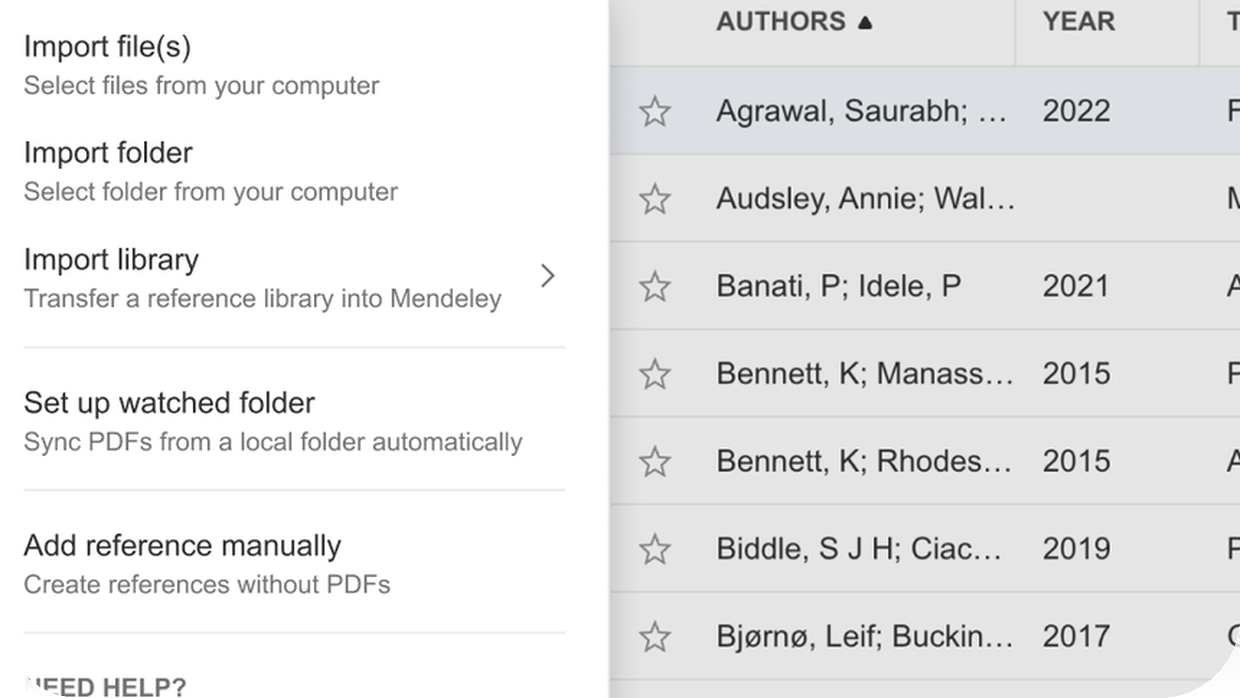
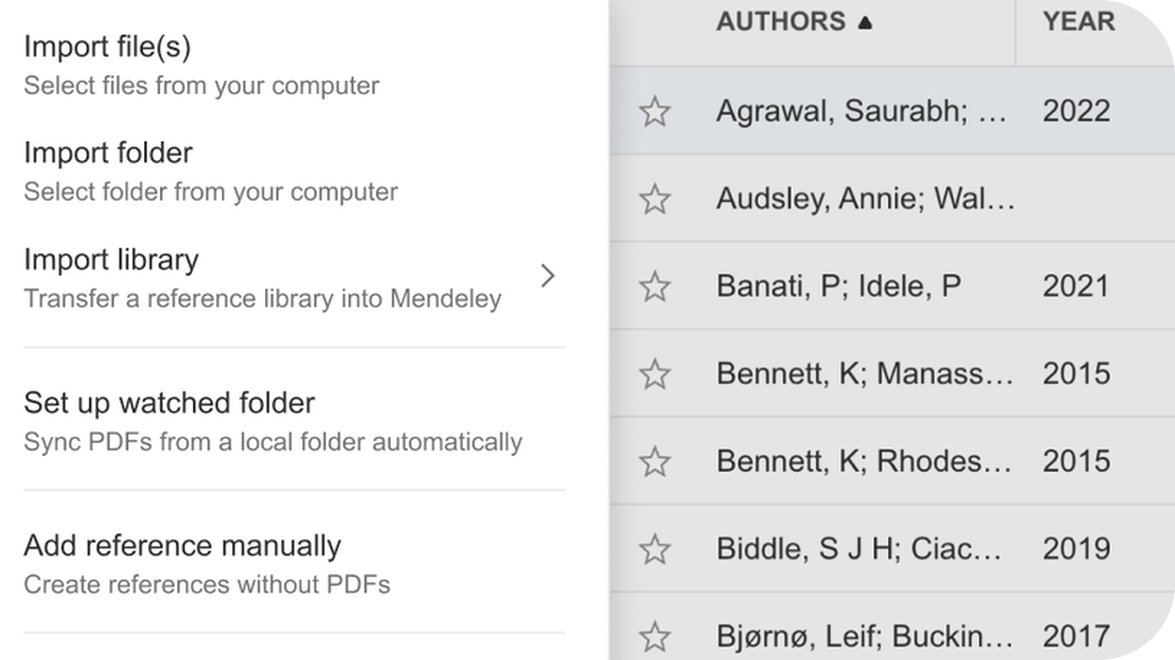
fix: selesaikan temuan audit desain deck
- panah slide 7 tidak menabrak kartu
- tangkapan Library slide 12 dipotong dan dibulatkan
- tambah check_layout.py untuk overlap panah
- kontras NIM slide 2 dan posisi baris anggota
- kartu slide 7 lebih ringkas dan slide 8 tanpa highlight palsu
- ikon kutipan sampul tidak menabrak bunga
- penutup hanya dua teks; teks sumber 10 pt

diff --git a/build.py b/build.py
@@ -62,7 +62,7 @@ def card3(s,y,h,items,fills):
 # 1 sampul
 s=slide(BG)
 pic(s,icon('MdLibraryBooks','flower',PC,ON_PC),20.6,2.6,12,'Ilustrasi Mendeley')
-pic(s,icon('MdFormatQuote','cookie',TC,ON_TC),28.4,12.6,5,'Ikon kutipan')
+pic(s,icon('MdFormatQuote','cookie',TC,ON_TC),29.0,14.7,4.2,'Ikon kutipan')
 box(s,2.0,3.0,8.4,1.6,PC,0.8,name='label');tx(s,2.0,3.0,8.4,1.6,'Bahasa Indonesia',18,ON_PC,True,'center','middle')
 tx(s,2.0,4.4,18,7.8,'Implementasi aplikasi Mendeley dalam penulisan karya ilmiah',44,TX,True,name='judul')
 tx(s,2.0,13.4,18,1,'Mata kuliah Bahasa Indonesia',20,P,True)
@@ -72,12 +72,12 @@ s=slide(BG)
 tx(s,2.0,1.4,28,2.4,'Anggota kelompok',40,TX,True,valign='middle',name='judul')
 tx(s,2.0,3.6,28,1,'Mata kuliah Bahasa Indonesia',18,P,True)
 for k,(nm,nim) in enumerate([('Aminadab Yunus','202451028'),('Muhammad Rifqi al Khafis','202551019'),('Arkano Hamada Moslem','202551034'),('Farrel Aufa Athaya Ardiyono','202551042'),("Muhammad La'azidannak Rusda",'202551049'),('Aksel Agustiyan','202551058'),('Muhammad Arief Satria Nugraha','202551151')]):
-    x=(2.0+k*7.3) if k<4 else (5.2+(k-4)*7.3);y=5.2 if k<4 else 11.0
+    x=(2.0+k*7.3) if k<4 else (5.65+(k-4)*7.3);y=5.2 if k<4 else 11.0
     fill=[PC,CARD,TC,CARD,PC,CARD,CARD][k];col=[ON_PC,TX,ON_TC,TX,ON_PC,TX,TX][k]
     box(s,x,y,6.8,5.2,fill,1.2)
     clipped(s,f'num-{k+1:02d}.png',x+0.05,y+0.04,6.7,5.12,'Nomor '+f'{k+1:02d}')
     tx(s,x+0.6,y+1.3,5.6,2.4,nm,18,col,True)
-    tx(s,x+0.6,y+3.8,5.6,1.2,nim,12,MUT)
+    tx(s,x+0.6,y+3.8,5.6,1.2,nim,12,col)
 page(s)
 notes(s,'Sebutkan anggota kelompok satu per satu sesuai urutan NIM.')
 # 3 latar belakang
@@ -113,7 +113,7 @@ for k,(ic,hd,bd) in enumerate([('MdLibraryBooks','Mendeley Reference Manager','P
     y=4.0+k*4.9;box(s,X0+10.8,y,17.2,4.2,CARD,1.2)
     pic(s,icon(ic,'cookie',SC,ON_SC),X0+11.5,y+0.8,2.6,hd)
     tx(s,X0+14.8,y+0.6,12.6,1.2,hd,24,TX,True);tx(s,X0+14.8,y+1.8,12.6,2.3,bd,18,MUT)
-tx(s,X0,18.3,20,0.4,'Sumber: Mendeley (n.d.); Mendeley Support (2025).',9,MUT)
+tx(s,X0,18.3,20,0.5,'Sumber: Mendeley (n.d.); Mendeley Support (2025).',10,MUT)
 notes(s,'Mendeley dikembangkan Elsevier. Ada tiga komponen: Reference Manager untuk pustaka, Mendeley Cite untuk Word, dan Web Importer untuk peramban. Mendeley Desktop masih tersedia, tetapi pengembangannya sudah dihentikan; Reference Manager menjadi fokus.')
 # 6 apa yang diolah
 s=frame(1,'Apa yang diolah Mendeley')
@@ -123,7 +123,7 @@ tx(s,X0+4.4,4.0,W-5.4,4.6,'Mendeley memindahkan metadata referensi ke sitasi dan
 card3(s,9.4,8.6,[('MdDescription','Metadata','Judul, penulis, tahun, DOI, dan nama jurnal menjadi bahan sitasi.'),
  ('MdStyle','Gaya sitasi','Mendeley menerapkan gaya yang dipilih, misalnya APA atau IEEE.'),
  ('MdListAlt','Daftar pustaka','Entri disusun otomatis dari metadata dan gaya yang sama.')],[(CARD,SC,ON_SC,TX),(CARD,TC,ON_TC,TX),(CARD,PC,ON_PC,TX)])
-tx(s,X0,18.3,20,0.4,'Sumber: Mendeley Support (2025).',9,MUT)
+tx(s,X0,18.3,20,0.5,'Sumber: Mendeley Support (2025).',10,MUT)
 notes(s,'Mendeley mengolah metadata menjadi sitasi dan daftar pustaka. Jenis kutipan dan aturan tiap gaya dibahas Kelompok 4; fokus kita pada data yang diolah dan hasil yang dibuat Mendeley.')
 # 7 satu sumber dua keluaran
 s=frame(1,'Satu sumber, dua keluaran')
@@ -132,24 +132,24 @@ w3=(W-1.6)/3
 for k,(hd,bd,fill,col) in enumerate([('01 Metadata','Judul, penulis, tahun, dan sumber.',CARD,TX),
  ('02 Sitasi','Mendeley Cite menyisipkan sitasi ke naskah.',SC,ON_SC),
  ('03 Daftar pustaka','Entri tersusun dari metadata yang sama.',TC,ON_TC)]):
-    x=X0+k*(w3+0.8);box(s,x,4.6,w3,7.0,fill,1.3)
+    x=X0+k*(w3+0.8);box(s,x,4.6,w3,6.0,fill,1.3)
     tx(s,x+0.8,5.2,w3-1.6,2.05,hd,24,col,True)
     tx(s,x+0.8,6.6,w3-1.6,3.6,bd,18,col)
-    if k<2:pic(s,icon('MdArrowForward','none','x',P),x+w3+0.25,7.7,0.9,'Panah')
+    if k<2:pic(s,icon('MdArrowForward','none','x',P),x+w3+0.1,7.3,0.6,'Panah')
 box(s,X0,12.4,W,4.4,PC,1.4)
 pic(s,icon('MdFactCheck','circle',P,'FFFFFF'),X0+1.0,13.2,2.4,'Ikon pemeriksaan')
 tx(s,X0+4.0,12.8,W-5.0,3.6,'Yang tetap manual: periksa metadata dan pastikan gaya sitasi sesuai pedoman. Teori jenis sitasi dibahas Kelompok 4.',20,ON_PC,False,valign='middle')
-tx(s,X0,17.2,28,0.7,'Sumber: Mendeley Support (2025).',9,MUT)
+tx(s,X0,17.2,28,0.7,'Sumber: Mendeley Support (2025).',10,MUT)
 notes(s,'Satu referensi menghasilkan sitasi dalam teks dan entri daftar pustaka. Mendeley memakai metadata yang sama. Teori jenis sitasi dan aturan APA/IEEE tidak dibahas di sini; itu materi Kelompok 4.')
 # 8 persiapan
 s=frame(2,'Persiapan: akun, aplikasi, dan add-in')
 w3=(W-1.6)/3
 for k,(ic,hd,bd) in enumerate([('MdPersonAdd','Buat akun','Daftar dengan email aktif.'),('MdDownload','Pasang aplikasi','Unduh Reference Manager, lalu pasang add-in Mendeley Cite di Word.'),('MdExtension','Pasang ekstensi','Tambahkan Web Importer ke peramban untuk menyimpan referensi dari web.')]):
-    x=X0+k*(w3+0.8);box(s,x,4.2,w3,12.6,CARD if k!=1 else PC,1.4)
+    x=X0+k*(w3+0.8);box(s,x,4.2,w3,12.6,[CARD,SC,TC][k],1.4)
     clipped(s,f'mask-08-{k+1:02d}.png',x,4.2,w3,12.6,'Masking angka langkah')
-    pic(s,icon(ic,'flower',PC if k!=1 else P,ON_PC if k!=1 else 'FFFFFF'),x+w3-5.4,4.8,4.6,hd)
-    tx(s,x+0.9,10.4,w3-1.8,1.4,hd,24,TX if k!=1 else ON_PC,True);tx(s,x+0.9,12.2,w3-1.8,4.6,bd,20,MUT if k!=1 else ON_PC)
-tx(s,X0,18.3,20,0.4,'Sumber: Mendeley (n.d.).',9,MUT)
+    pic(s,icon(ic,'flower',PC,ON_PC),x+w3-5.4,4.8,4.6,hd)
+    tx(s,x+0.9,10.4,w3-1.8,1.4,hd,24,[TX,ON_SC,TX][k],True);tx(s,x+0.9,12.2,w3-1.8,4.6,bd,20,[MUT,ON_SC,MUT][k])
+tx(s,X0,18.3,20,0.5,'Sumber: Mendeley (n.d.).',10,MUT)
 notes(s,'Tiga persiapan: membuat akun dengan email aktif, memasang Reference Manager dan add-in Mendeley Cite di Word, lalu memasang Web Importer di peramban.')
 # 9 langkah 1
 s=frame(2,'Langkah 1: kumpulkan referensi')
@@ -186,7 +186,7 @@ for k,lab in enumerate(['Library','Mendeley Cite']):
     x=X0+k*14.4;y=4.6;fill=PC if k==0 else SC;col=ON_PC if k==0 else ON_SC
     box(s,x,y,13.6,12.4,fill,1.4)
     if k==0:
-        pic(s,'img-library-fade.png',x+0.6,y+0.6,12.4,'Ilustrasi Library',6.98)
+        pic(s,'img-library-fade.png',x+0.6,y+0.6,12.4,'Ilustrasi Library',6.97)
         box(s,x+0.6,y+8.0,3.6,1.0,CARD,0.55,name='label');tx(s,x+0.6,y+8.0,3.6,1.0,lab,14,col,True,'center','middle')
         tx(s,x+0.6,y+9.2,12.4,2.0,'Impor PDF, kelompokkan, dan rapikan metadata referensi.',16,col)
     else:
@@ -195,7 +195,7 @@ for k,lab in enumerate(['Library','Mendeley Cite']):
         box(s,x+0.6,y+6.6,5.4,1.0,CARD,0.55,name='label');tx(s,x+0.6,y+6.6,5.4,1.0,'Insert Bibliography',12,col,True,'center','middle')
         tx(s,x+0.6,y+7.9,6.8,2.2,'Klik More, lalu pilih Insert Bibliography.',14,col)
         pic(s,'img-cite-panel.png',x+7.7,y+1.75,5.4,'Ilustrasi Mendeley Cite',7.45)
-    tx(s,x+0.6,y+11.3,12.4,0.7,'Sumber: mendeley.com',9,col)
+    tx(s,x+0.6,y+11.3,12.4,0.7,'Sumber: mendeley.com',10,col)
 notes(s,'Peragakan alur: impor ke Library, cek metadata, sisipkan kutipan di Word, pilih gaya, lalu buat daftar pustaka. Gambar adalah ilustrasi dari aset resmi Mendeley (mendeley.com); ganti dengan tangkapan layar sendiri bila sudah mencoba alurnya.')
 # 13 kelebihan keterbatasan
 s=frame(3,'Kelebihan dan keterbatasan')
@@ -208,7 +208,7 @@ for k,(ic,hd,its,fill,col,sh,fg) in enumerate([('MdCheckCircle','Kelebihan',['He
         y=7.7+j*2.5
         box(s,x+0.8,y,12.0,1.9,pill,0.95,name='kapsul')
         tx(s,x+1.4,y,11.2,1.9,t,16,col,valign='middle')
-tx(s,X0,18.3,20,0.4,'Sumber: Mendeley Support (2025).',9,MUT)
+tx(s,X0,18.3,20,0.5,'Sumber: Mendeley Support (2025).',10,MUT)
 notes(s,'Kelebihan: hemat waktu, format konsisten, dan sinkron. Keterbatasannya: metadata perlu dicek, gaya sitasi kampus tertentu mungkin tidak tersedia, penyimpanan gratis 2 GB, dan kesalahan tetap menjadi tanggung jawab penulis.')
 # 14 kesimpulan (terang)
 s=slide(BG);tx(s,2.0,1.4,30,2.4,'Kesimpulan dan saran',40,TX,True,valign='middle',name='judul')
@@ -240,12 +240,9 @@ tx(s,X0,16.8,28,0.8,'Semua sumber diakses 9 November 2026.',10,MUT)
 notes(s,'Daftar pustaka memuat sumber yang benar-benar dibuka: halaman resmi Mendeley, Mendeley Support, KBBI VI Daring, dan panduan gaya APA serta IEEE. Perbarui tanggal akses bila presentasi dilakukan pada hari lain.')
 # 16 penutup
 s=slide(BG)
-box(s,2.4,2.2,6.2,1.1,PC,0.55,name='label');tx(s,2.4,2.2,6.2,1.1,'Penutup',14,ON_PC,True,'center','middle')
 tx(s,2.4,4.2,19,4.0,'Terima kasih',72,TX,True)
 tx(s,2.4,9.0,18,1.4,'Pertanyaan dan diskusi',24,P,True)
-tx(s,2.4,16.3,18,0.8,'Mata kuliah Bahasa Indonesia',11,MUT)
 pic(s,icon('MdQuestionAnswer','flower',PC,ON_PC),23.0,4.8,8.4,'Ikon tanya jawab')
-page(s)
 notes(s,'Tutup dengan terima kasih dan ajak tanya jawab. Arahkan pertanyaan tentang langkah implementasi, kendala metadata, dan pilihan gaya sitasi ke slide terkait.')
 # --- bangun ---
 assert n==TOTAL,f'jumlah slide {n}, seharusnya {TOTAL}'

diff --git a/check_layout.py b/check_layout.py
@@ -1,0 +1,33 @@
+import json
+import sys
+
+
+def rect(props):
+    x, y = float(props["x"].removesuffix("cm")), float(props["y"].removesuffix("cm"))
+    return x, y, x + float(props["width"].removesuffix("cm")), y + float(props["height"].removesuffix("cm"))
+
+
+def overlaps(a, b):
+    return a[0] < b[2] and b[0] < a[2] and a[1] < b[3] and b[1] < a[3]
+
+
+def main():
+    slides = {}
+    for op in json.load(open("ops.json")):
+        if op["type"] in ("picture", "shape"):
+            slides.setdefault(op["parent"], []).append(op)
+
+    bad = 0
+    for parent, ops in slides.items():
+        arrows = [op for op in ops if op["type"] == "picture" and op["props"].get("alt") == "Panah"]
+        cards = [op for op in ops if op["type"] == "shape" and op["props"].get("name") == "kartu"]
+        for arrow in arrows:
+            for card in cards:
+                if overlaps(rect(arrow["props"]), rect(card["props"])):
+                    bad += 1
+                    print(f"{parent}: panah {rect(arrow['props'])} menabrak kartu {rect(card['props'])}")
+    return 1 if bad else 0
+
+
+if __name__ == "__main__":
+    sys.exit(main())
